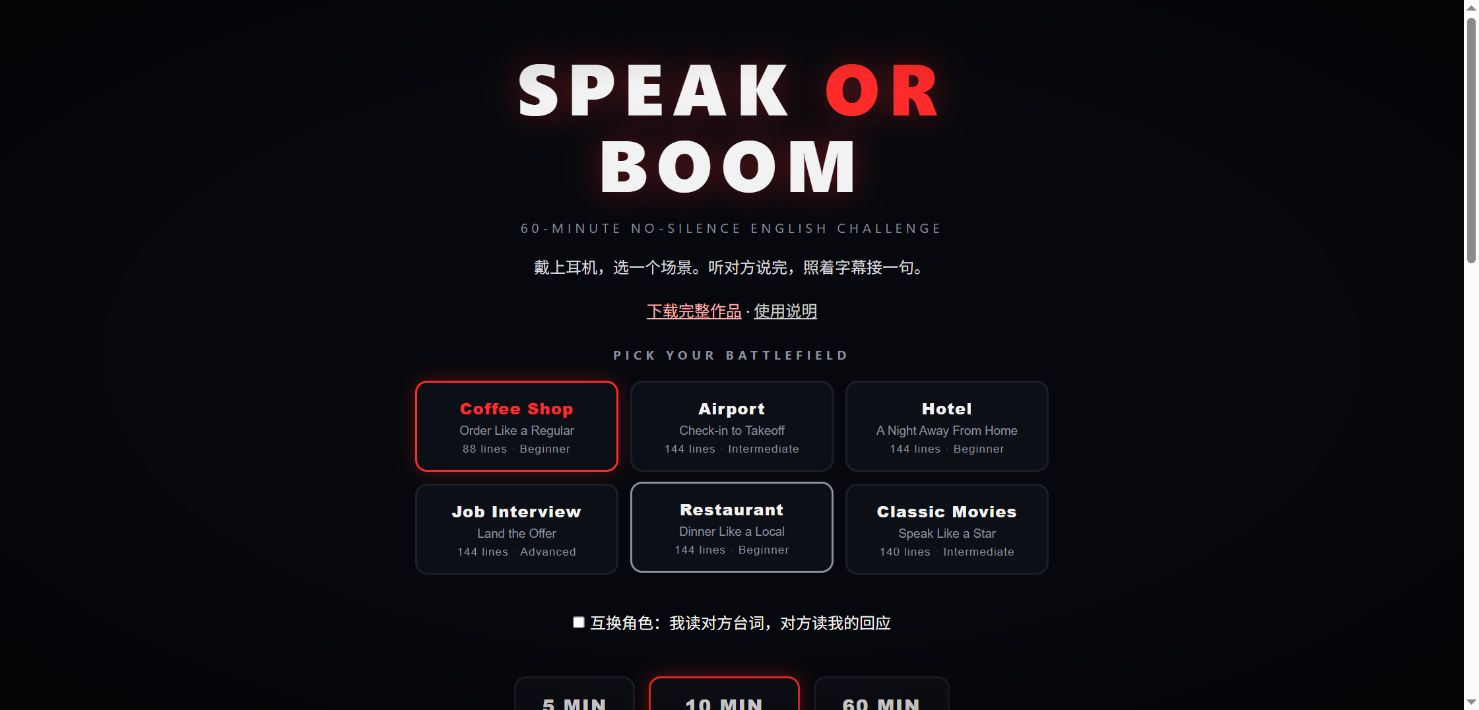
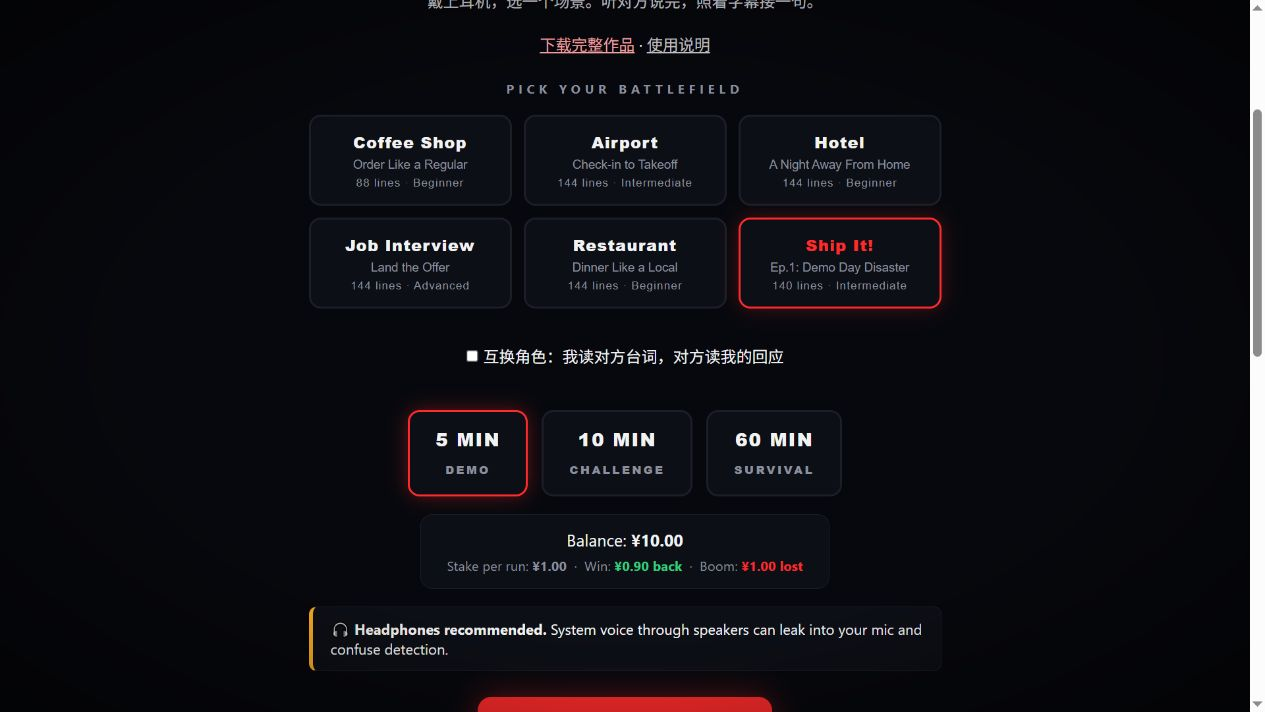
Update first WeChat article for Ship It episode

diff --git a/docs/article/index.html b/docs/article/index.html
@@ -1,8 +1,8 @@
 <!doctype html><html lang="zh-CN"><meta charset="utf-8">
 <meta name="viewport" content="width=device-width,initial-scale=1">
-<title>我做了一台“英语跑步机”，从一杯咖啡开始</title><style>
+<title>发布稿 · 我做了一台“英语跑步机”，从一杯咖啡开始</title><style>
 body{margin:0;background:#f5f1e8;color:#252a25;font-family:"Microsoft YaHei",sans-serif}
-main{max-width:774px;margin:36px auto;padding:32px;background:#fffdf8}
+main{max-width:774px;margin:0 auto;padding:32px;background:#fffdf8}
 .draft{color:#785a27;background:#f1e7d0;padding:14px;font-size:14px}
 .brand{letter-spacing:.2em;color:#6d765f;font-size:14px}
 h1{font-size:30px;line-height:1.6;margin-bottom:36px}
@@ -11,12 +11,12 @@ p{font-size:18px;line-height:2;margin:24px 0;overflow-wrap:anywhere}
 figure{margin:32px 0}img{display:block;width:100%;height:auto}
 @media(max-width:600px){main{margin:0;padding:24px}h1{font-size:25px}p{font-size:17px}}
 </style><main><p class="brand">方寸拾雅 · LI ZHENGFANG</p>
-<p class="draft">排版草稿：在线练习页已发布，本文尚未发表。</p>
 <h1>我做了一台“英语跑步机”，从一杯咖啡开始</h1><p>先把练习入口放在这里，想试的朋友可以直接打开。</p>
 <p>Speak or Boom 在线练习：<br>https://li-zhengfang.github.io/speak-or-boom/</p>
+<p>完整作品包（电脑保存用）：<br>https://li-zhengfang.github.io/speak-or-boom/downloads/speak-or-boom.zip</p>
 <p>打开网页，选场景和时长，点击 START，允许麦克风，就能开始。不用注册，也不用安装。推荐电脑 Chrome，戴耳机、接好麦克风。微信里打开时，请把网址复制到 Chrome。想把作品存下来，页面也有“下载完整作品”的入口。</p>
-<figure><img src="article-home.png" alt="Speak or Boom 当前首页，真实软件界面"></figure>
 <figure><img src="article-photo-lake.png" alt="湖畔清晨，摄影风格配图"></figure>
+<figure><img src="article-home.png" alt="Speak or Boom 当前首页，真实软件界面"></figure>
 <p>想象这样一个早晨。</p>
 <p>你是一个刚到纽约的 newcomer，拖着箱子，走进街角的咖啡店。磨豆机响着，身后有人排队，店员抬头问你想喝什么。</p>
 <figure><img src="article-photo-newyork.png" alt="纽约街景，摄影风格配图"></figure>
@@ -35,9 +35,9 @@ figure{margin:32px 0}img{display:block;width:100%;height:auto}
 <figure><img src="article-photo-hotel.png" alt="酒店大厅，摄影风格配图"></figure>
 <p>跑步带往前走，你也跟着往前走。</p>
 <p>刚开始不用自己编答案。字幕在眼前，像扶手一样，让你先站稳，先把声音发出来。我希望练习里少一点“下一步该干什么”的犹豫，多一点听见英语、说出英语的连续时间。</p>
-<p>现在有咖啡店、机场、酒店、求职面试、餐厅和经典电影六种场景。都是写好的对话，适合照着字幕练习，还不是自由聊天。</p>
+<p>现在可以在咖啡店、机场、酒店、求职面试和餐厅里练习，也可以走进一集原创职场故事。都是写好的对话，字幕会给你下一句，适合先把开口这件事练熟。</p>
 <p>想换个位置，也可以互换角色。刚才还在点咖啡，下一轮就站到柜台后面，问对方想喝什么。同一个场景，从两边各走一遍，会注意到不同的表达。</p>
-<figure><img src="article-product.png" alt="Speak or Boom 实际软件界面"></figure>
+<figure><img src="article-countdown.png" alt="Speak or Boom 对话跟读与计时，真实软件界面"></figure>
 <h2>02 / 沉默，也会有倒计时</h2>
 <p>这个工具有一点小小的紧张感。</p>
 <p>轮到你说话，如果一直不出声，3 秒时出现提醒，5 秒时催你开口，8 秒进入最后的倒计时；连续沉默达到 12 秒，本轮结束。</p>
@@ -45,16 +45,23 @@ figure{margin:32px 0}img{display:block;width:100%;height:auto}
 <p>我想要的是那种“这一句，现在就说”的节奏。听一段、停一停、刷一下手机，很容易又把练习放过去；倒计时让注意力重新回到眼前的句子。</p>
 <p>说得慢一点，带着自己的口音，先把句子读完。它主要检测是否持续发声，不是专业的发音评分。字幕会逐词高亮，帮助你跟读。</p>
 <p>对方说话时，沉默倒计时不会启动。需要休息，可以按 PAUSE 暂停，再按 RESUME 继续。跑步机也有扶手和停止键，练英语同样应该留出调整的余地。</p>
-<p>第一次建议从 5 分钟开始。觉得合适，再试 10 分钟，或 60 分钟的持续练习。长时间模式会重新排列章节、重复练习，并不是一小时完全不重复的台词。</p>
+<p>第一次建议从 5 分钟开始。觉得合适，再试 10 分钟，或 60 分钟的持续练习。日常场景会按章节重排，原创剧集则按故事顺序从头再来。60 分钟是持续练习的时间，里面会有重复的台词。</p>
 <figure><img src="article-photo-path.png" alt="湖畔步道，摄影风格配图"></figure>
-<h2>03 / 给句子一点电影里的温度</h2>
-<p>我也想让英语练习有一点生活之外的趣味。</p>
-<p>比如《阿甘正传》《泰坦尼克号》《肖申克的救赎》。想到这些名字，脑海里往往先有一个人、一段相遇，或一个舍不得忘记的画面，然后才是某句英文。</p>
-<p>电影让语言带着表情和处境。同样一句话，安慰朋友和第一次见面，说出来的感觉就不同。</p>
-<p>当前版本里也放了经典电影表达练习，配有角色对话。你可以试着读出那个语气，不必一开始就模仿得很像。</p>
-<p>我希望英语能多一些这样的具体时刻：点到想喝的咖啡，问清一段路，听懂对方，又能接上一句话。</p>
+<h2>03 / 跟着一段故事，把话接下去</h2>
+<p>我也想让练习有一点故事里的温度。</p>
+<p>看电影时，留下来的常常是一个人、一段相遇，或者一个舍不得忘记的画面。想到《阿甘正传》《泰坦尼克号》，耳边的英文也会跟着那个画面回来。</p>
+<p>语言有了处境，就容易记住。同样一句话，安慰朋友和第一次见面，说出来的感觉就不同。</p>
+<p>所以，现在的 Speak or Boom 里放进了一集原创职场故事：Ship It!，第一集叫 Demo Day Disaster。</p>
+<p>早晨，Mia 走进办公室。Jake 熬夜赶完了演示，信心满满；Lucy 带来了燕麦饼干。重要的演示就在眼前，咖啡机却先出了状况。几个人一边忙，一边把话接下去。</p>
+<figure><img src="article-story-morning.png" alt="原创剧情场景配图：演示日的早晨"></figure>
+<p>原创剧情场景配图：演示日的早晨</p>
+<p>这一集有 10 场、140 轮对话，两边的台词都有配音。故事按顺序往前走。你听完一句，读出自己的回应，跟着人物把这一天过下去。想换个位置，也可以勾选互换角色，从另一边练一次。</p>
+<figure><img src="article-story-pitch.png" alt="原创剧情场景配图：演示前的排练"></figure>
+<p>原创剧情场景配图：演示前的排练</p>
+<p>这是为练习写的原创故事。今晚可以先走进第一场，不急着读完。熟悉了人物，再回来继续，让那些表达慢慢有一个可以想起的地方。</p>
+<p>我希望英语能多一些这样的具体时刻：点到想喝的咖啡，问清一段路，听懂同事，又能接上一句话。</p>
 <p>练习的意义，对我来说，就在这些细小的地方。</p>
-<figure><img src="article-photo-cinema.png" alt="影院，摄影风格配图"></figure>
+
 <figure><img src="article-mic-trial.png" alt="真实麦克风试读完成界面"></figure>
 <h2>04 / 留五分钟，试着开口</h2>
 <p>在线练习：<br>https://li-zhengfang.github.io/speak-or-boom/</p>
@@ -63,7 +70,7 @@ figure{margin:32px 0}img{display:block;width:100%;height:auto}
 <p>直接在线使用：</p>
 <p>① 打开上面的练习网址，不用注册或安装。</p>
 <p>② 先点“麦克风测试与校准”，确认读句子时收到人声。再试听对方的英语，调到自己舒服的速度。六个场景的两边台词都已配音，电脑和手机用同一套声音。</p>
-<p>③ 选择场景和时长，第一次先试五分钟。点击 START，允许使用麦克风。对方说完，轮到你，就跟着字幕读；读完稍停一下，进入下一句。</p>
+<p>③ 选择场景和时长，第一次先试五分钟。想练连续剧情，选 Ship It!；想从日常开口开始，选 Coffee Shop。点击 START，允许使用麦克风。对方说完，轮到你，就跟着字幕读；读完稍停一下，进入下一句。</p>
 <p>④ 中途想歇一会儿，点击 PAUSE。某一句不熟悉，可以在暂停页听它的示范发音，准备好再点 RESUME，自己读一遍。切换到其他应用时，练习也会自动暂停。</p>
 <p>页面也提供完整作品包下载。保存到电脑后，可以按包内说明用 Python 3.8 本地启动；在线练习不需要这一步。若讲话没有反应，先检查浏览器麦克风权限和输入设备。</p>
 <p>页面里的余额和押金都是练习用的虚拟数字，没有真实付款，不用充值。练习记录保存在当前浏览器里。</p>
@@ -72,4 +79,5 @@ figure{margin:32px 0}img{display:block;width:100%;height:auto}
 <p>用过以后，欢迎告诉我哪一句让你卡住了，哪个场景还想多练一会儿。我想把它慢慢做成一个愿意经常打开的练习地方。</p>
 <p>LI ZHENGFANG</p>
 <figure><img src="article-guide.png" alt="Speak or Boom 实际使用说明界面"></figure>
-<figure><img src="article-voice-pause.png" alt="暂停后听本句示范发音，真实软件界面"></figure></main></html>
+<figure><img src="article-voice-pause.png" alt="暂停后听本句示范发音，真实软件界面"></figure>
+<figure><img src="article-photo-cinema.png" alt="影院，摄影风格配图"></figure></main></html>

diff --git a/docs/article/publish.html b/docs/article/publish.html
@@ -13,6 +13,7 @@ figure{margin:32px 0}img{display:block;width:100%;height:auto}
 </style><main><p class="brand">方寸拾雅 · LI ZHENGFANG</p>
 <h1>我做了一台“英语跑步机”，从一杯咖啡开始</h1><p>先把练习入口放在这里，想试的朋友可以直接打开。</p>
 <p>Speak or Boom 在线练习：<br>https://li-zhengfang.github.io/speak-or-boom/</p>
+<p>完整作品包（电脑保存用）：<br>https://li-zhengfang.github.io/speak-or-boom/downloads/speak-or-boom.zip</p>
 <p>打开网页，选场景和时长，点击 START，允许麦克风，就能开始。不用注册，也不用安装。推荐电脑 Chrome，戴耳机、接好麦克风。微信里打开时，请把网址复制到 Chrome。想把作品存下来，页面也有“下载完整作品”的入口。</p>
 <figure><img src="article-photo-lake.png" alt="湖畔清晨，摄影风格配图"></figure>
 <figure><img src="article-home.png" alt="Speak or Boom 当前首页，真实软件界面"></figure>
@@ -34,7 +35,7 @@ figure{margin:32px 0}img{display:block;width:100%;height:auto}
 <figure><img src="article-photo-hotel.png" alt="酒店大厅，摄影风格配图"></figure>
 <p>跑步带往前走，你也跟着往前走。</p>
 <p>刚开始不用自己编答案。字幕在眼前，像扶手一样，让你先站稳，先把声音发出来。我希望练习里少一点“下一步该干什么”的犹豫，多一点听见英语、说出英语的连续时间。</p>
-<p>现在有咖啡店、机场、酒店、求职面试、餐厅和经典电影六种场景。都是写好的对话，适合照着字幕练习，还不是自由聊天。</p>
+<p>现在可以在咖啡店、机场、酒店、求职面试和餐厅里练习，也可以走进一集原创职场故事。都是写好的对话，字幕会给你下一句，适合先把开口这件事练熟。</p>
 <p>想换个位置，也可以互换角色。刚才还在点咖啡，下一轮就站到柜台后面，问对方想喝什么。同一个场景，从两边各走一遍，会注意到不同的表达。</p>
 <figure><img src="article-countdown.png" alt="Speak or Boom 对话跟读与计时，真实软件界面"></figure>
 <h2>02 / 沉默，也会有倒计时</h2>
@@ -44,16 +45,23 @@ figure{margin:32px 0}img{display:block;width:100%;height:auto}
 <p>我想要的是那种“这一句，现在就说”的节奏。听一段、停一停、刷一下手机，很容易又把练习放过去；倒计时让注意力重新回到眼前的句子。</p>
 <p>说得慢一点，带着自己的口音，先把句子读完。它主要检测是否持续发声，不是专业的发音评分。字幕会逐词高亮，帮助你跟读。</p>
 <p>对方说话时，沉默倒计时不会启动。需要休息，可以按 PAUSE 暂停，再按 RESUME 继续。跑步机也有扶手和停止键，练英语同样应该留出调整的余地。</p>
-<p>第一次建议从 5 分钟开始。觉得合适，再试 10 分钟，或 60 分钟的持续练习。长时间模式会重新排列章节、重复练习，并不是一小时完全不重复的台词。</p>
+<p>第一次建议从 5 分钟开始。觉得合适，再试 10 分钟，或 60 分钟的持续练习。日常场景会按章节重排，原创剧集则按故事顺序从头再来。60 分钟是持续练习的时间，里面会有重复的台词。</p>
 <figure><img src="article-photo-path.png" alt="湖畔步道，摄影风格配图"></figure>
-<h2>03 / 给句子一点电影里的温度</h2>
-<p>我也想让英语练习有一点生活之外的趣味。</p>
-<p>比如《阿甘正传》《泰坦尼克号》《肖申克的救赎》。想到这些名字，脑海里往往先有一个人、一段相遇，或一个舍不得忘记的画面，然后才是某句英文。</p>
-<p>电影让语言带着表情和处境。同样一句话，安慰朋友和第一次见面，说出来的感觉就不同。</p>
-<p>当前版本里也放了经典电影表达练习，配有角色对话。你可以试着读出那个语气，不必一开始就模仿得很像。</p>
-<p>我希望英语能多一些这样的具体时刻：点到想喝的咖啡，问清一段路，听懂对方，又能接上一句话。</p>
+<h2>03 / 跟着一段故事，把话接下去</h2>
+<p>我也想让练习有一点故事里的温度。</p>
+<p>看电影时，留下来的常常是一个人、一段相遇，或者一个舍不得忘记的画面。想到《阿甘正传》《泰坦尼克号》，耳边的英文也会跟着那个画面回来。</p>
+<p>语言有了处境，就容易记住。同样一句话，安慰朋友和第一次见面，说出来的感觉就不同。</p>
+<p>所以，现在的 Speak or Boom 里放进了一集原创职场故事：Ship It!，第一集叫 Demo Day Disaster。</p>
+<p>早晨，Mia 走进办公室。Jake 熬夜赶完了演示，信心满满；Lucy 带来了燕麦饼干。重要的演示就在眼前，咖啡机却先出了状况。几个人一边忙，一边把话接下去。</p>
+<figure><img src="article-story-morning.png" alt="原创剧情场景配图：演示日的早晨"></figure>
+<p>原创剧情场景配图：演示日的早晨</p>
+<p>这一集有 10 场、140 轮对话，两边的台词都有配音。故事按顺序往前走。你听完一句，读出自己的回应，跟着人物把这一天过下去。想换个位置，也可以勾选互换角色，从另一边练一次。</p>
+<figure><img src="article-story-pitch.png" alt="原创剧情场景配图：演示前的排练"></figure>
+<p>原创剧情场景配图：演示前的排练</p>
+<p>这是为练习写的原创故事。今晚可以先走进第一场，不急着读完。熟悉了人物，再回来继续，让那些表达慢慢有一个可以想起的地方。</p>
+<p>我希望英语能多一些这样的具体时刻：点到想喝的咖啡，问清一段路，听懂同事，又能接上一句话。</p>
 <p>练习的意义，对我来说，就在这些细小的地方。</p>
-<figure><img src="article-photo-cinema.png" alt="影院，摄影风格配图"></figure>
+
 <figure><img src="article-mic-trial.png" alt="真实麦克风试读完成界面"></figure>
 <h2>04 / 留五分钟，试着开口</h2>
 <p>在线练习：<br>https://li-zhengfang.github.io/speak-or-boom/</p>
@@ -62,7 +70,7 @@ figure{margin:32px 0}img{display:block;width:100%;height:auto}
 <p>直接在线使用：</p>
 <p>① 打开上面的练习网址，不用注册或安装。</p>
 <p>② 先点“麦克风测试与校准”，确认读句子时收到人声。再试听对方的英语，调到自己舒服的速度。六个场景的两边台词都已配音，电脑和手机用同一套声音。</p>
-<p>③ 选择场景和时长，第一次先试五分钟。点击 START，允许使用麦克风。对方说完，轮到你，就跟着字幕读；读完稍停一下，进入下一句。</p>
+<p>③ 选择场景和时长，第一次先试五分钟。想练连续剧情，选 Ship It!；想从日常开口开始，选 Coffee Shop。点击 START，允许使用麦克风。对方说完，轮到你，就跟着字幕读；读完稍停一下，进入下一句。</p>
 <p>④ 中途想歇一会儿，点击 PAUSE。某一句不熟悉，可以在暂停页听它的示范发音，准备好再点 RESUME，自己读一遍。切换到其他应用时，练习也会自动暂停。</p>
 <p>页面也提供完整作品包下载。保存到电脑后，可以按包内说明用 Python 3.8 本地启动；在线练习不需要这一步。若讲话没有反应，先检查浏览器麦克风权限和输入设备。</p>
 <p>页面里的余额和押金都是练习用的虚拟数字，没有真实付款，不用充值。练习记录保存在当前浏览器里。</p>
@@ -71,4 +79,5 @@ figure{margin:32px 0}img{display:block;width:100%;height:auto}
 <p>用过以后，欢迎告诉我哪一句让你卡住了，哪个场景还想多练一会儿。我想把它慢慢做成一个愿意经常打开的练习地方。</p>
 <p>LI ZHENGFANG</p>
 <figure><img src="article-guide.png" alt="Speak or Boom 实际使用说明界面"></figure>
-<figure><img src="article-voice-pause.png" alt="暂停后听本句示范发音，真实软件界面"></figure></main></html>
+<figure><img src="article-voice-pause.png" alt="暂停后听本句示范发音，真实软件界面"></figure>
+<figure><img src="article-photo-cinema.png" alt="影院，摄影风格配图"></figure></main></html>
